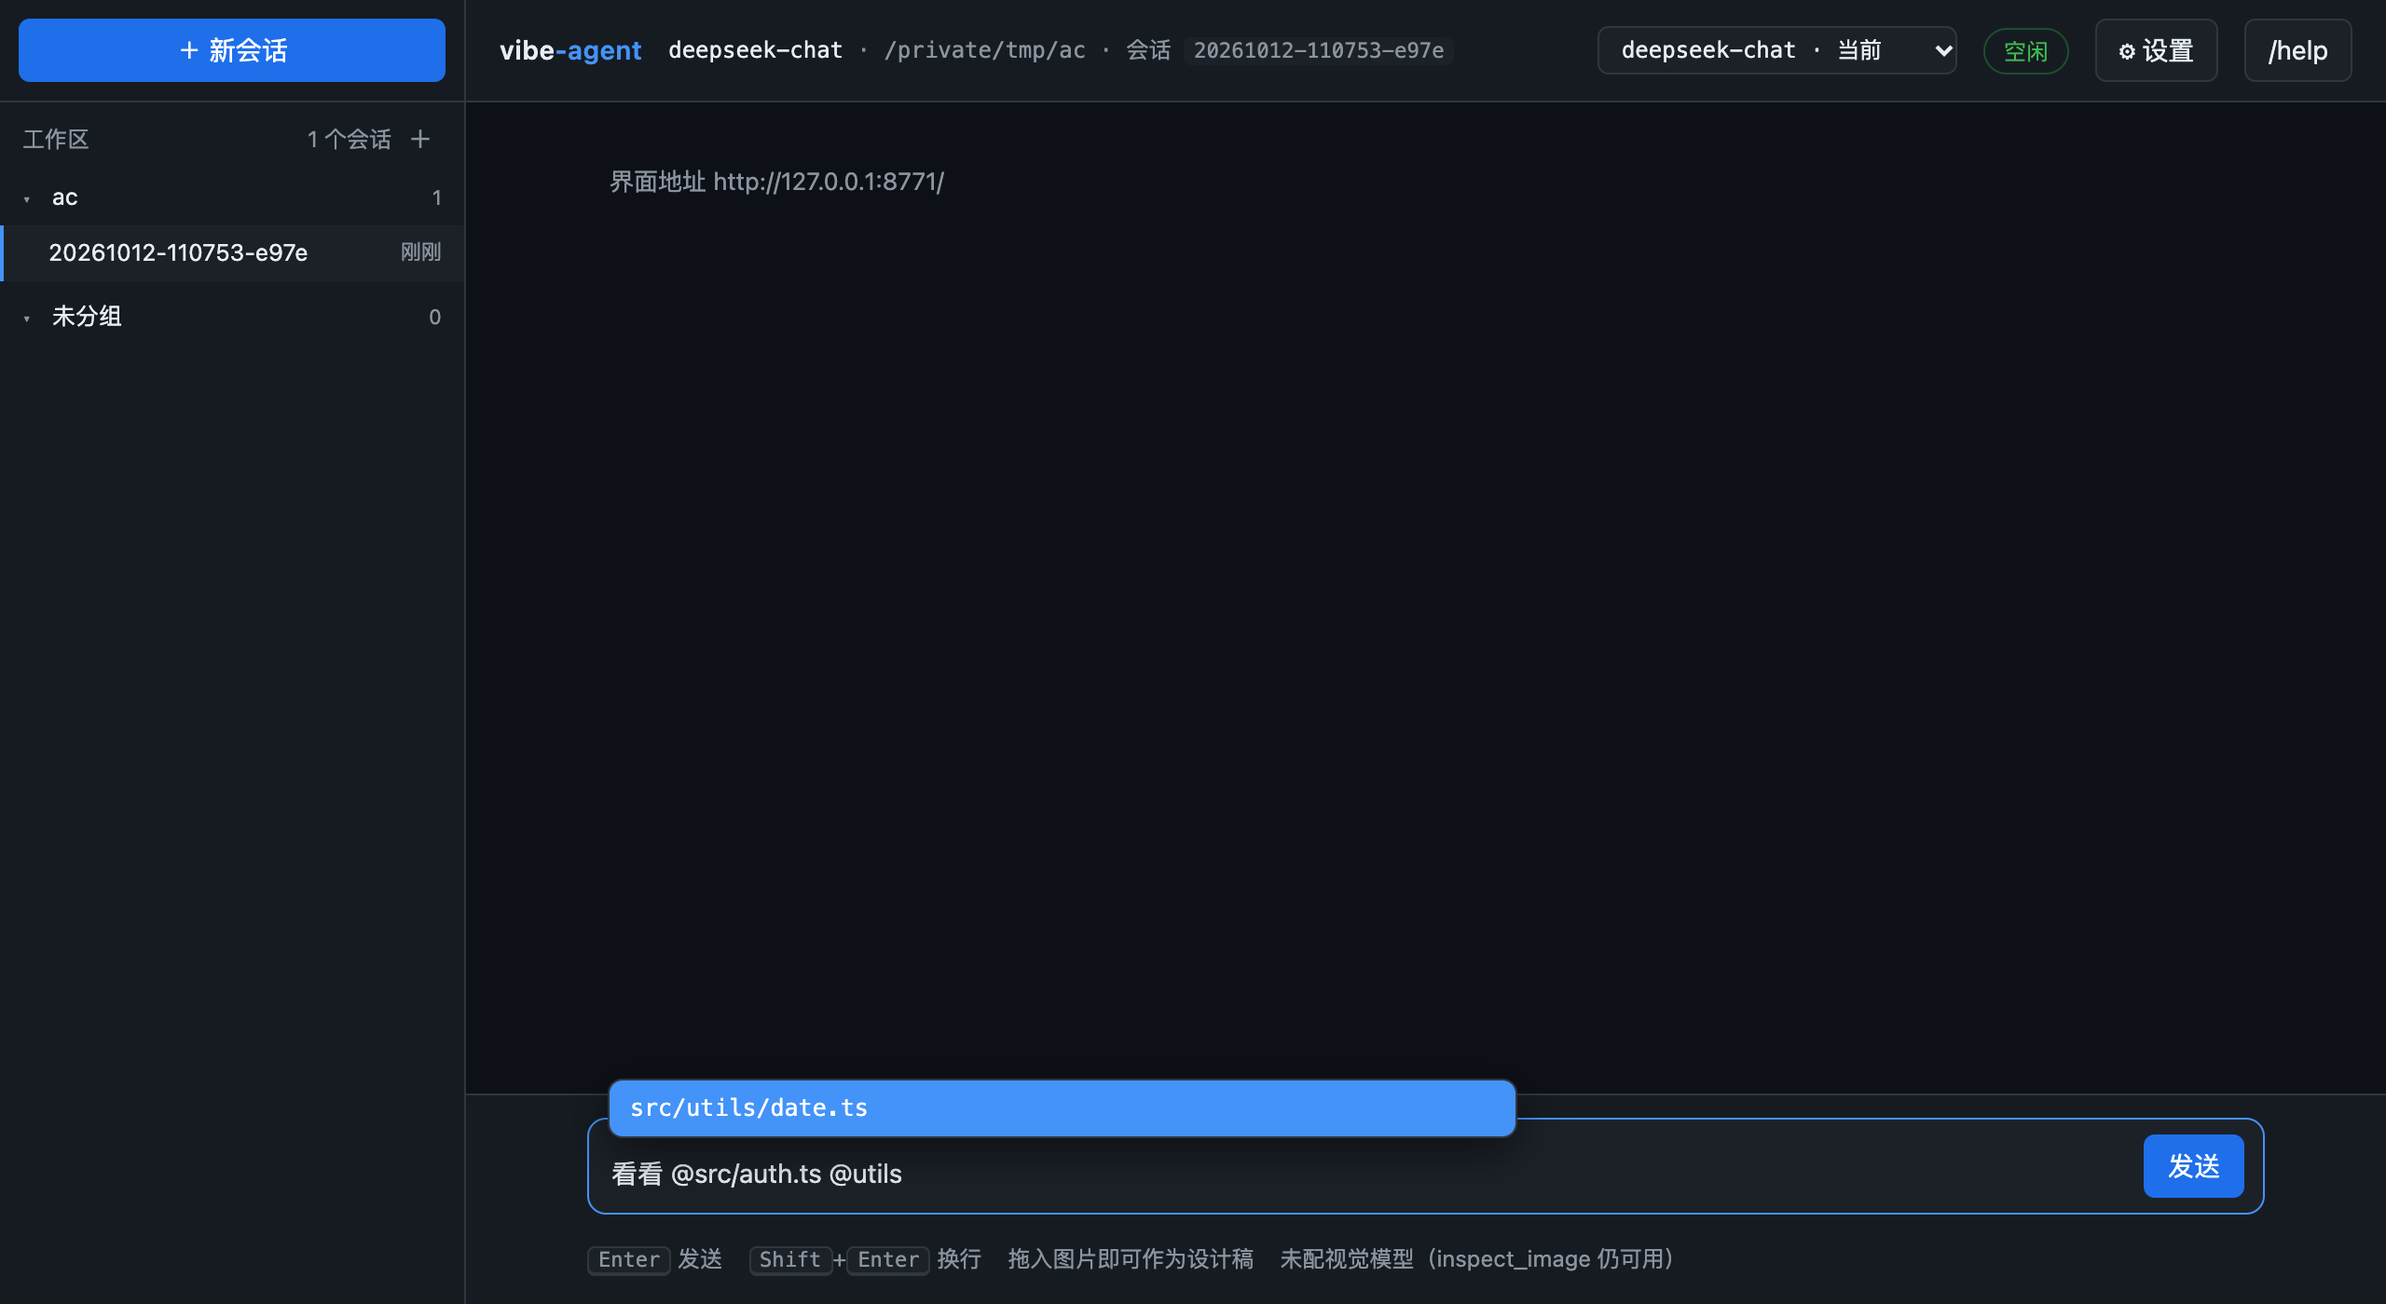
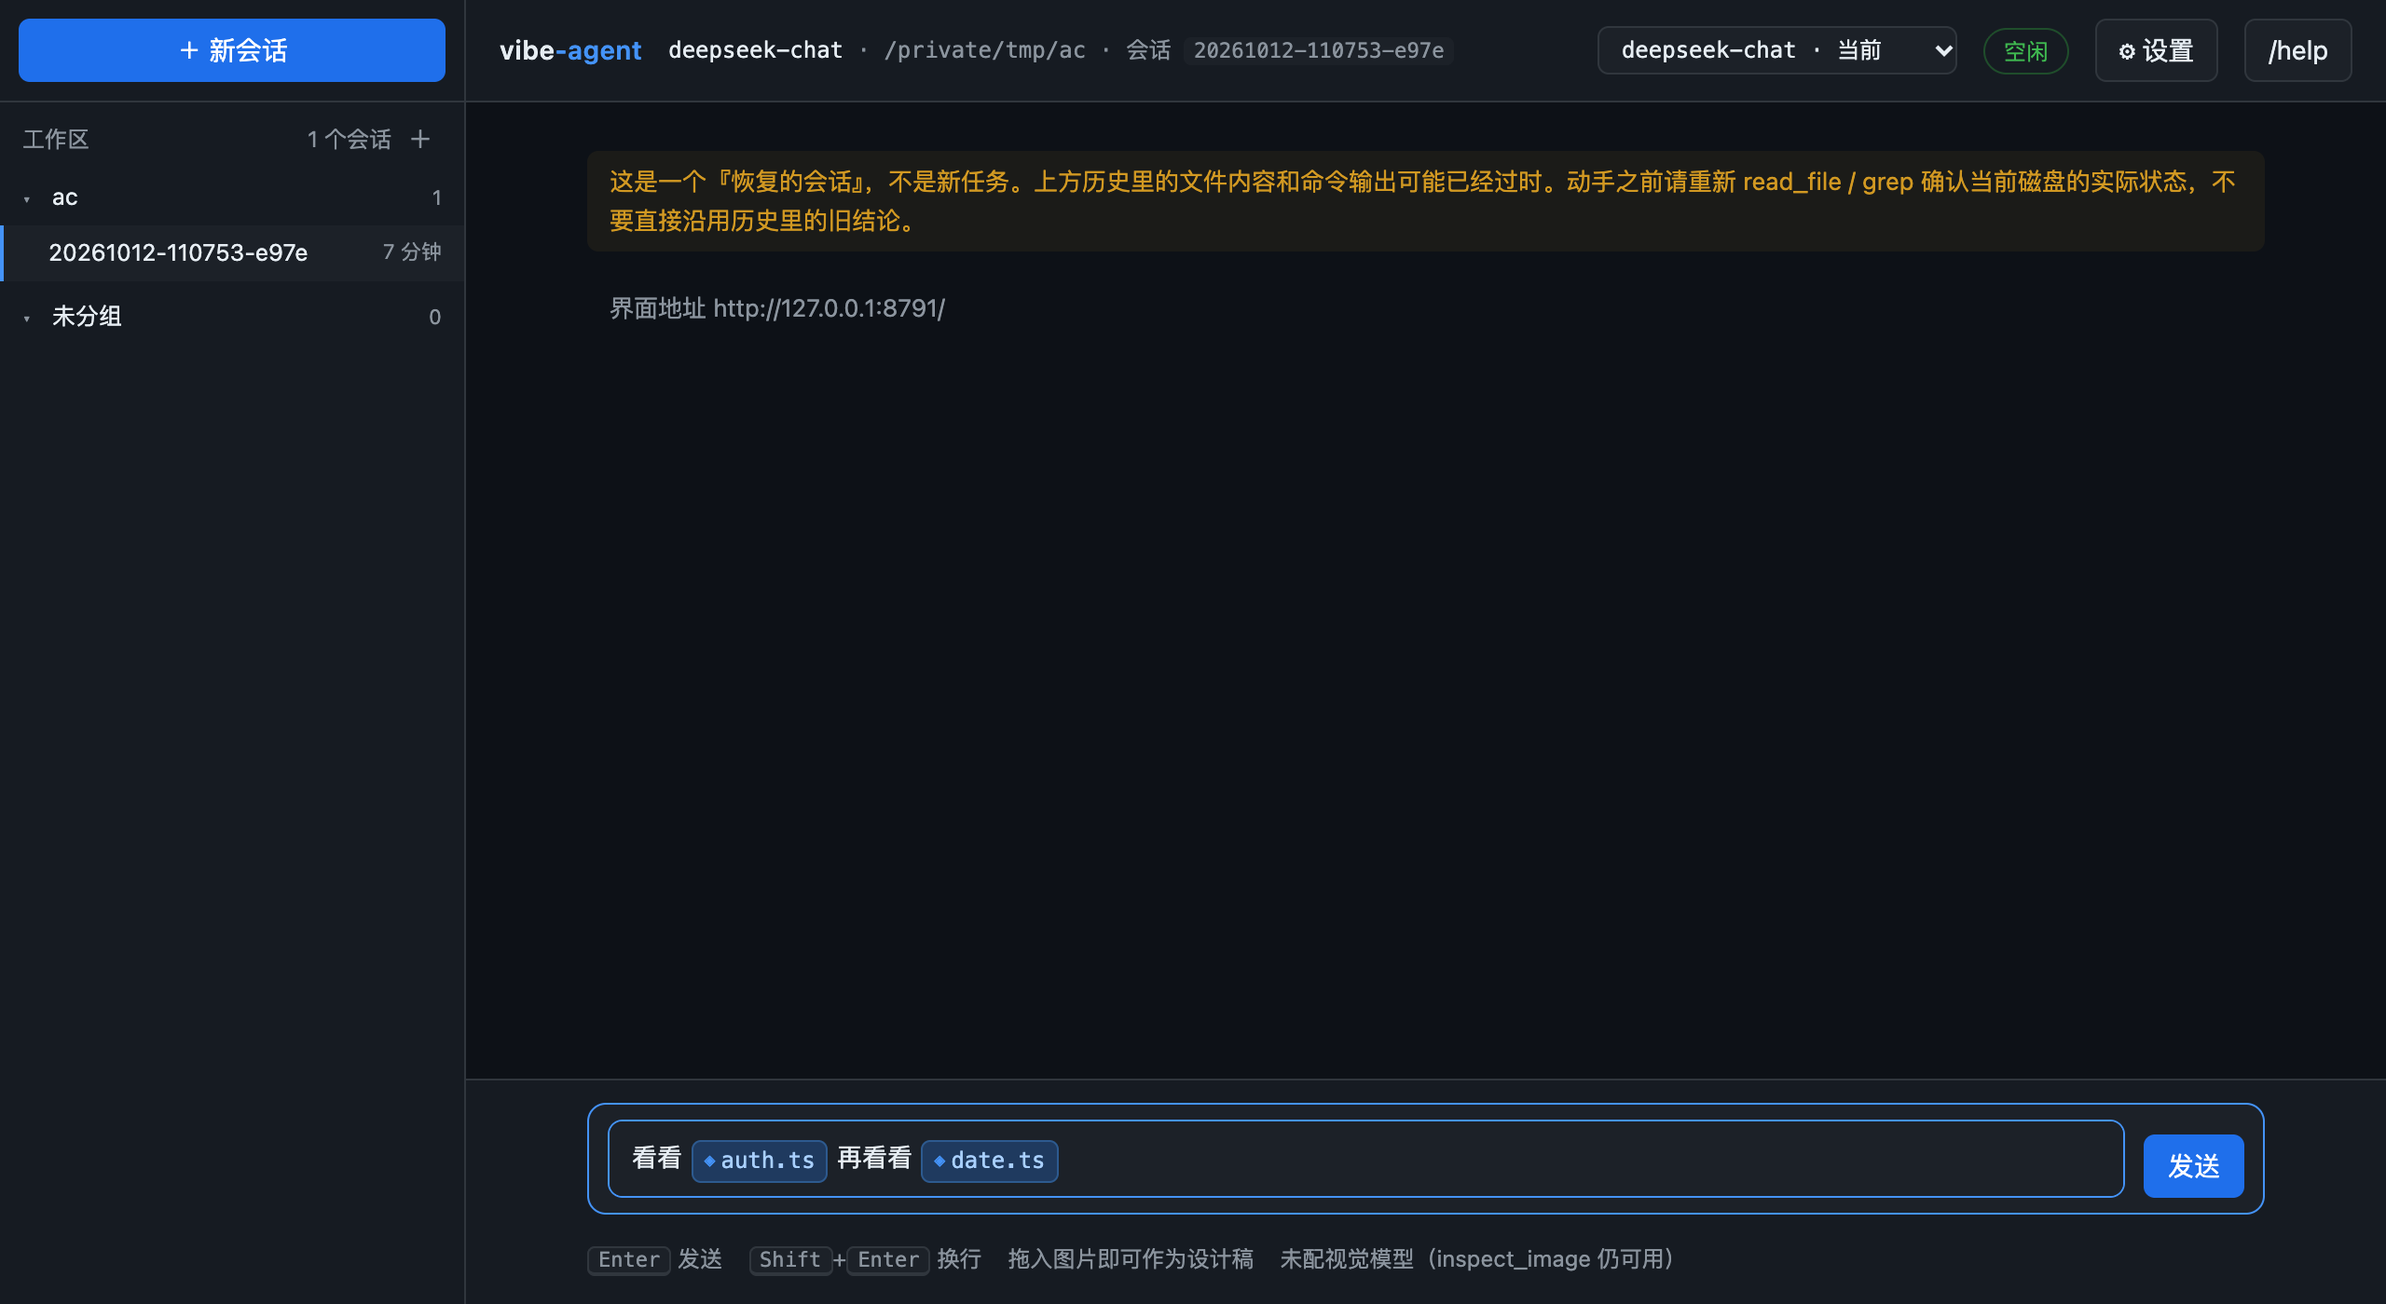
feat: @引用的三处体验优化 —— chip 展示、本地过滤、跟随滚动
**① chip 展示**（不再是原始 @路径）

输入框从 textarea 换成 contenteditable——textarea 里没法只给一部分文字
加样式，而 chip 需要那能力。

选中的文件显示成 `◈auth.ts`：只显示**文件名**（一行放不下长路径），
完整路径放进悬停提示。代价是 `value` / `selectionStart` 这些得自己实现，
所以加了两个桥接函数：`editorText()` 把 DOM 还原成 `@路径` 发给后端，
`setEditorText()` 反向。

顺带处理了：chip 后面按退格先删 chip（而不是先删那个空格）、
粘贴只取纯文本（富文本默认会把剪贴板的 HTML 带进来）、
占位符用 `:empty::before`。

**② 补全不再每次按键都打服务端**

原来每敲一个字符就 `GET /api/files?q=...`，而服务端要 `rglob` 遍历
整个工作区——卡顿就是这么来的。

改成**取一次全量列表缓存在前端，之后本地过滤**（和服务端同一套打分：
连续命中和词边界加分）。工作区文件在一次会话里几乎不变，
切换会话时才失效重取。

**③ 上下键选中项跟随滚动**

走到列表两端时 `scrollIntoView({block:"nearest"})`——
不然选中项滚出可视区就不知道选了哪个。

自己犯的错：keydown 里还留着旧的 `insertRef`（函数已经改名成
`insertChip`），报 `insertRef is not defined`，chip 一个都没插进去。

测试 1025 项全绿（这次改的是前端交互，靠浏览器实测验证）。

diff --git a/va/web/static/index.html b/va/web/static/index.html
@@ -319,6 +319,25 @@
   .refs div { padding: 5px 11px; cursor: pointer; white-space: nowrap; }
   .refs div:hover, .refs div.on { background: var(--accent); color: #fff; }
 
+  /* ---- 富文本输入框 + @ 引用 chip ---- */
+  .editor {
+    flex: 1; min-height: 38px; max-height: 200px; overflow-y: auto;
+    background: var(--panel2); border: 1px solid var(--border); border-radius: 8px;
+    padding: 9px 12px; font: inherit; font-size: 13.5px; color: var(--text);
+    outline: none; white-space: pre-wrap; word-break: break-word; line-height: 1.6;
+  }
+  .editor:focus { border-color: var(--accent); }
+  .editor:empty::before {
+    content: attr(data-placeholder); color: var(--muted); pointer-events: none;
+  }
+  .ref-chip {
+    display: inline-flex; align-items: center; gap: 3px; vertical-align: baseline;
+    background: #1f3a5f; border: 1px solid #2d5a8f; border-radius: 5px;
+    padding: 1px 6px; margin: 0 1px; font-size: 12px; color: #a9d0ff;
+    font-family: var(--mono); user-select: none;
+  }
+  .ref-chip .chip-icon { color: var(--accent); font-size: 10px; }
+
 </style>
 </head>
 <body>
@@ -363,7 +382,7 @@
 <footer>
   <div class="composer">
     <div class="box">
-      <textarea id="input" rows="1" placeholder="描述任务…  （Enter 发送，Shift+Enter 换行）"></textarea>
+      <div id="input" class="editor" contenteditable="true" role="textbox" data-placeholder="描述任务…  （@ 引用文件，Enter 发送，Shift+Enter 换行）"></div>
       <button class="primary" id="send">发送</button>
     </div>
     <div id="thumbs" class="thumbs"></div>
@@ -841,12 +860,113 @@ const PAGE_SIZE = 8;
 const collapsed = new Set();   // 折叠起来的工作区 slug
 const shown = new Map();       // 每个工作区当前显示多少条
 
+// ---------------------------------------------------------------- 输入框
+//
+// 用 contenteditable 而不是 textarea：`@路径` 要显示成**chip**（带图标的小块），
+// 而不是一串原始文本。textarea 里没法只给一部分文字加样式。
+//
+// 代价是 value / selectionStart 这些东西得自己实现——下面这几个函数
+// 就是「富文本」和「纯文本」之间的那道桥。
+
+function editorText() {
+  // 拼成发给后端的文本：文本节点原样，chip 还原成 @路径
+  let out = "";
+  for (const node of $("input").childNodes) {
+    if (node.nodeType === Node.TEXT_NODE) {
+      out += node.textContent;
+    } else if (node.classList && node.classList.contains("ref-chip")) {
+      out += "@" + node.dataset.path;
+    } else if (node.tagName === "BR") {
+      out += "\n";
+    } else {
+      out += node.textContent || "";
+    }
+  }
+  return out;
+}
+
+function setEditorText(text) {
+  const editor = $("input");
+  editor.innerHTML = "";
+  if (text) editor.appendChild(document.createTextNode(text));
+}
+
+function makeChip(path) {
+  const chip = document.createElement("span");
+  chip.className = "ref-chip";
+  chip.contentEditable = "false";
+  chip.dataset.path = path;
+  chip.title = path;
+  // 只显示文件名，路径放进 title——一行里放不下长路径
+  chip.innerHTML =
+    `<span class="chip-icon">◈</span>` +
+    `<span class="chip-name">${escapeHtml(path.split("/").pop())}</span>`;
+  return chip;
+}
+
+function placeCaretAfter(node) {
+  const range = document.createRange();
+  range.setStartAfter(node);
+  range.collapse(true);
+  const selection = window.getSelection();
+  selection.removeAllRanges();
+  selection.addRange(range);
+}
+
+function insertChip(path) {
+  const editor = $("input");
+  const selection = window.getSelection();
+  if (!selection.rangeCount) {
+    editor.appendChild(makeChip(path));
+    editor.appendChild(document.createTextNode(" "));
+    return;
+  }
+
+  // 把光标前那个 @query 删掉——chip 要顶替它
+  const range = selection.getRangeAt(0);
+  const before = range.cloneRange();
+  before.setStart(editor, 0);
+  const tail = before.toString();
+  const at = tail.lastIndexOf("@");
+  if (at >= 0) {
+    const kill = document.createRange();
+    // 用文本偏移定位：@ 到光标之间都得删
+    let remaining = tail.length - at;
+    let node = range.startContainer;
+    let offset = range.startOffset;
+    while (node && remaining > 0) {
+      if (node.nodeType === Node.TEXT_NODE) {
+        const take = Math.min(remaining, offset);
+        if (take > 0) {
+          const start = offset - take;
+          const r = document.createRange();
+          r.setStart(node, start);
+          r.setEnd(node, offset);
+          r.deleteContents();
+          remaining -= take;
+        }
+        offset = 0;
+      }
+      node = node.previousSibling;
+      if (node && node.nodeType === Node.TEXT_NODE) offset = node.textContent.length;
+      else if (node) remaining -= (node.textContent || "").length;
+    }
+  }
+
+  const chip = makeChip(path);
+  const space = document.createTextNode(" ");
+  range.insertNode(space);
+  range.insertNode(chip);
+  placeCaretAfter(space);
+  updateRefs();
+}
+
 // ---------------------------------------------------------------- @ 文件补全
 
 let refItems = [];
 let refIndex = 0;
-let refQuery = "";      // 触发补全时 @ 后面的那串
-let refStart = -1;      // @ 在输入框里的位置
+let refQuery = null;
+let fileCache = null;       // 工作区文件列表，取一次就够了
 
 function refsVisible() {
   return !$("refs").classList.contains("off");
@@ -856,6 +976,7 @@ function hideRefs() {
   $("refs").classList.add("off");
   refItems = [];
   refIndex = 0;
+  refQuery = null;
 }
 
 function positionRefs() {
@@ -863,8 +984,27 @@ function positionRefs() {
   const box = $("input").getBoundingClientRect();
   const el = $("refs");
   el.style.left = box.left + "px";
-  el.style.width = Math.min(Math.max(box.width * 0.6, 320), box.width) + "px";
+  el.style.width = Math.min(Math.max(box.width * 0.55, 300), box.width) + "px";
   el.style.bottom = window.innerHeight - box.top + 6 + "px";
+}
+
+function fuzzyScore(query, text) {
+  // 和服务端一个思路：连续命中和词边界加分
+  if (!query) return 1;
+  const hit = text.indexOf(query);
+  if (hit >= 0) return 1000 - hit;
+  let score = 0;
+  let position = 0;
+  let streak = 0;
+  for (const char of query) {
+    const found = text.indexOf(char, position);
+    if (found < 0) return 0;
+    streak = found === position ? streak + 1 : 0;
+    score += 10 + streak * 5;
+    if (found === 0 || "/-_. ".includes(text[found - 1])) score += 15;
+    position = found + 1;
+  }
+  return score;
 }
 
 function renderRefs() {
@@ -878,51 +1018,61 @@ function renderRefs() {
     .join("");
   el.classList.remove("off");
   positionRefs();
+
+  // 选中项要跟着滚——不然上下键走到看不见的位置就没法判断了
+  const active = el.querySelector("div.on");
+  if (active) active.scrollIntoView({ block: "nearest" });
+
   el.querySelectorAll("div").forEach((row) => {
     row.addEventListener("mousedown", (ev) => {
       ev.preventDefault();   // 别让输入框失焦
-      insertRef(Number(row.dataset.i));
+      insertChip(refItems[Number(row.dataset.i)]);
+      hideRefs();
     });
   });
 }
 
-function insertRef(index) {
-  const name = refItems[index];
-  if (name === undefined || refStart < 0) return;
-  const input = $("input");
-  const before = input.value.slice(0, refStart);
-  const after = input.value.slice(input.selectionStart);
-  input.value = `${before}@${name} ${after}`;
-  const caret = before.length + name.length + 2;
-  input.setSelectionRange(caret, caret);
-  input.focus();
-  hideRefs();
+async function loadFileCache() {
+  if (fileCache) return fileCache;
+  try {
+    fileCache = (await fetch("/api/files?q=").then((r) => r.json())).files || [];
+  } catch (err) {
+    fileCache = [];
+  }
+  return fileCache;
 }
 
 async function updateRefs() {
-  // 从光标往回找最近的 @：它到光标之间不能有空格，否则不算在补全
-  const input = $("input");
-  const caret = input.selectionStart;
-  const upto = input.value.slice(0, caret);
-  const at = upto.lastIndexOf("@");
-  if (at < 0 || /\s/.test(upto.slice(at + 1))) {
-    hideRefs();
-    return;
-  }
-  const query = upto.slice(at + 1);
-  refStart = at;
-  if (query === refQuery && refsVisible()) return;   // 同一个查询别反复打
+  // 从光标往前找最近的 @：它到光标之间不能有空格（否则不算在补全）
+  const selection = window.getSelection();
+  if (!selection.rangeCount) return hideRefs();
+  const range = selection.getRangeAt(0);
+  const upto = range.cloneRange();
+  upto.setStart($("input"), 0);
+  const text = upto.toString();
+  const at = text.lastIndexOf("@");
+  if (at < 0 || /\s/.test(text.slice(at + 1))) return hideRefs();
+
+  const query = text.slice(at + 1);
+  if (query === refQuery) return;     // 同一个查询别重排
   refQuery = query;
 
-  let files = [];
-  try {
-    files = (await fetch(`/api/files?q=${encodeURIComponent(query)}`).then((r) => r.json())).files || [];
-  } catch (err) {
-    return;
-  }
-  refItems = files;
+  // **在本地过滤**：每次按键都往服务端要一遍会明显卡顿，
+  // 而工作区文件列表在一次会话里几乎不变，取一次就够。
+  const files = await loadFileCache();
+  const lower = query.toLowerCase();
+  refItems = files
+    .map((name) => [fuzzyScore(lower, name.toLowerCase()), name])
+    .filter(([score]) => score > 0)
+    .sort((a, b) => b[0] - a[0] || a[1].length - b[1].length || a[1].localeCompare(b[1]))
+    .slice(0, 20)
+    .map(([, name]) => name);
   refIndex = 0;
   renderRefs();
+}
+
+function resetFileCache() {
+  fileCache = null;
 }
 
 $("input").addEventListener("input", updateRefs);
@@ -1112,6 +1262,7 @@ async function newSession(workspace) {
   }
   $("stream").innerHTML = "";
   current = null; currentKind = null; lastTool = null; sessionInfo = null;
+  resetFileCache();   // 工作区可能变了，文件列表要重新取
   await loadHistory();
   await loadSidebar();
   await refreshHead();
@@ -1178,6 +1329,7 @@ async function openSession(sessionId) {
     return;
   }
 
+  resetFileCache();   // 工作区可能变了，文件列表要重新取
   await loadHistory();
   await loadSidebar();
   await refreshHead();
@@ -1395,7 +1547,7 @@ function connect() {
 // ---------------------------------------------------------------- 发送
 
 async function send() {
-  const text = input.value.trim();
+  const text = editorText().trim();
   const images = attached.slice();
   if (!text && !images.length) return;
 
@@ -1404,7 +1556,7 @@ async function send() {
     ? (text ? text + "\n\n" : "") + images.map((p) => p.relative).join("\n")
     : text;
 
-  input.value = "";
+  setEditorText("");
   autosize();
   attached.length = 0;
   renderThumbs();
@@ -1430,11 +1582,31 @@ async function send() {
 
 $("send").addEventListener("click", send);
 $("btn-help").addEventListener("click", () => {
-  input.value = "/help";
+  setEditorText("/help");
   send();
 });
 
 input.addEventListener("keydown", (e) => {
+  // chip 后面按退格：先删 chip，而不是先删那个空格
+  if (e.key === "Backspace") {
+    const selection = window.getSelection();
+    if (selection.rangeCount && selection.isCollapsed) {
+      const range = selection.getRangeAt(0);
+      const before = range.startContainer;
+      const sibling =
+        before.nodeType === Node.TEXT_NODE && range.startOffset === 0
+          ? before.previousSibling
+          : before.nodeType === Node.ELEMENT_NODE && range.startOffset > 0
+            ? before.childNodes[range.startOffset - 1]
+            : null;
+      if (sibling && sibling.classList && sibling.classList.contains("ref-chip")) {
+        e.preventDefault();
+        sibling.remove();
+        updateRefs();
+        return;
+      }
+    }
+  }
   if (e.key === "Enter" && !e.shiftKey) {
     e.preventDefault();
     send();
@@ -1516,6 +1688,14 @@ window.addEventListener("drop", (e) => {
 
 // 直接往输入框里 Ctrl+V 一张图也接住
 input.addEventListener("paste", (e) => {
+  // 富文本输入框默认会把剪贴板里的 HTML 一起粘进来，
+  // 那会带进一堆样式。图片走拖拽/粘贴上传那条路，这里只取纯文本。
+  if (!(e.clipboardData && e.clipboardData.files && e.clipboardData.files.length)) {
+    e.preventDefault();
+    const text = (e.clipboardData || window.clipboardData).getData("text/plain");
+    document.execCommand("insertText", false, text);
+    return;
+  }
   const items = [...(e.clipboardData?.items || [])];
   const image = items.find((it) => it.type.startsWith("image/"));
   if (image) {
@@ -1895,7 +2075,8 @@ document.addEventListener("keydown", (e) => {
     } else if (e.key === "Enter" || e.key === "Tab") {
       e.preventDefault();
       e.stopPropagation();
-      insertRef(refIndex);
+      insertChip(refItems[refIndex]);
+      hideRefs();
     }
   }
 }, true);

diff --git a/README.md b/README.md
@@ -221,7 +221,9 @@ pixel_diff       → 逐像素对比，给差异百分比和热力图
 ```
 
 比写完整路径快，而且**省掉 agent 找文件的两轮往返**（先 `glob` 找、再 `read_file` 读）。
-界面里输入 `@` 会弹补全，方向键选、Enter 插入。
+界面里输入 `@` 会弹补全，方向键选、Enter 插入。选中的文件在输入框里
+显示成一个**带图标的 chip**（`◈auth.ts`）而不是一长串路径——只显示文件名，
+完整路径放进悬停提示。
 
 分界很清楚：
 
